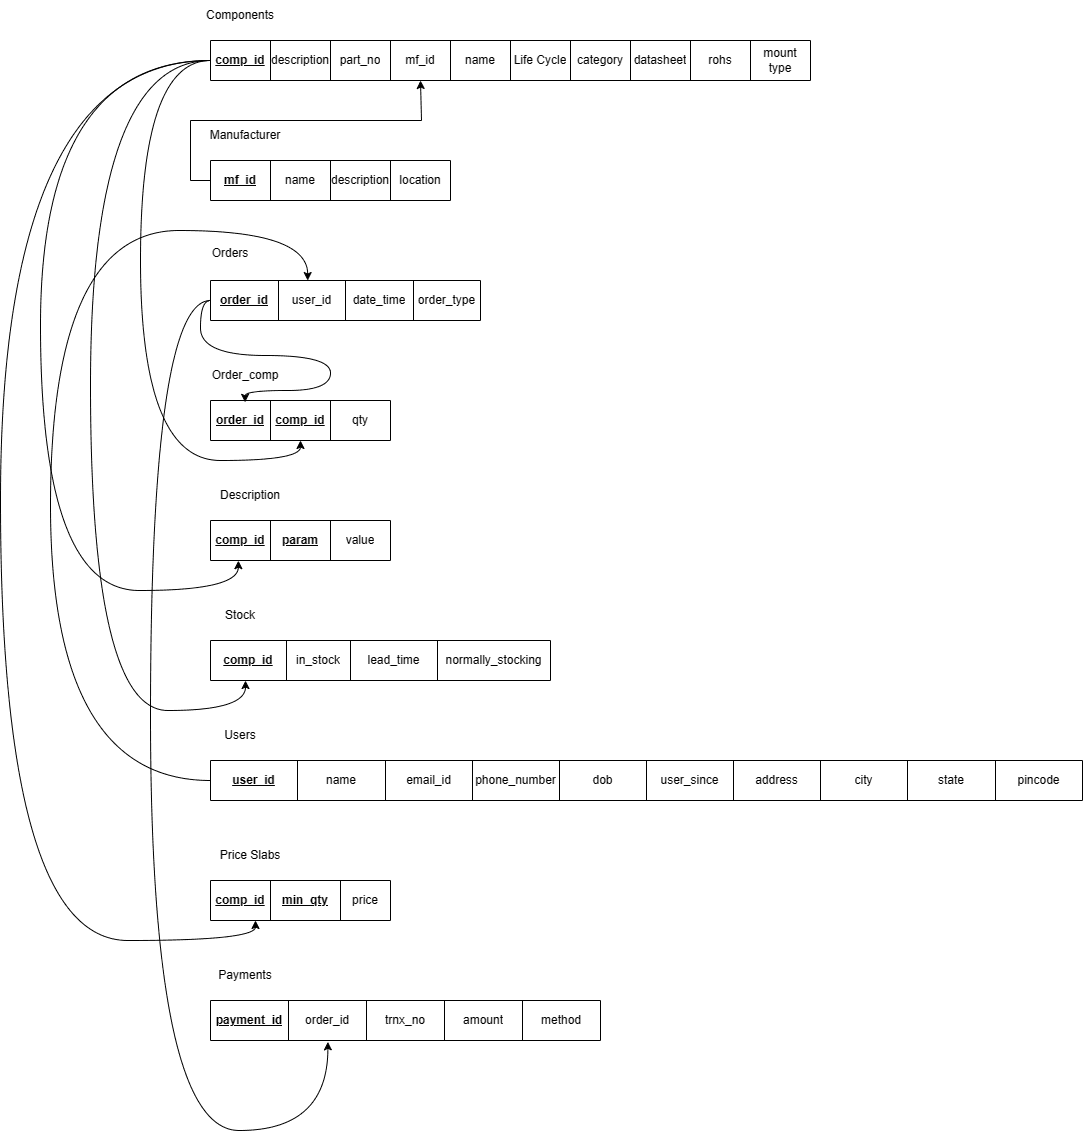
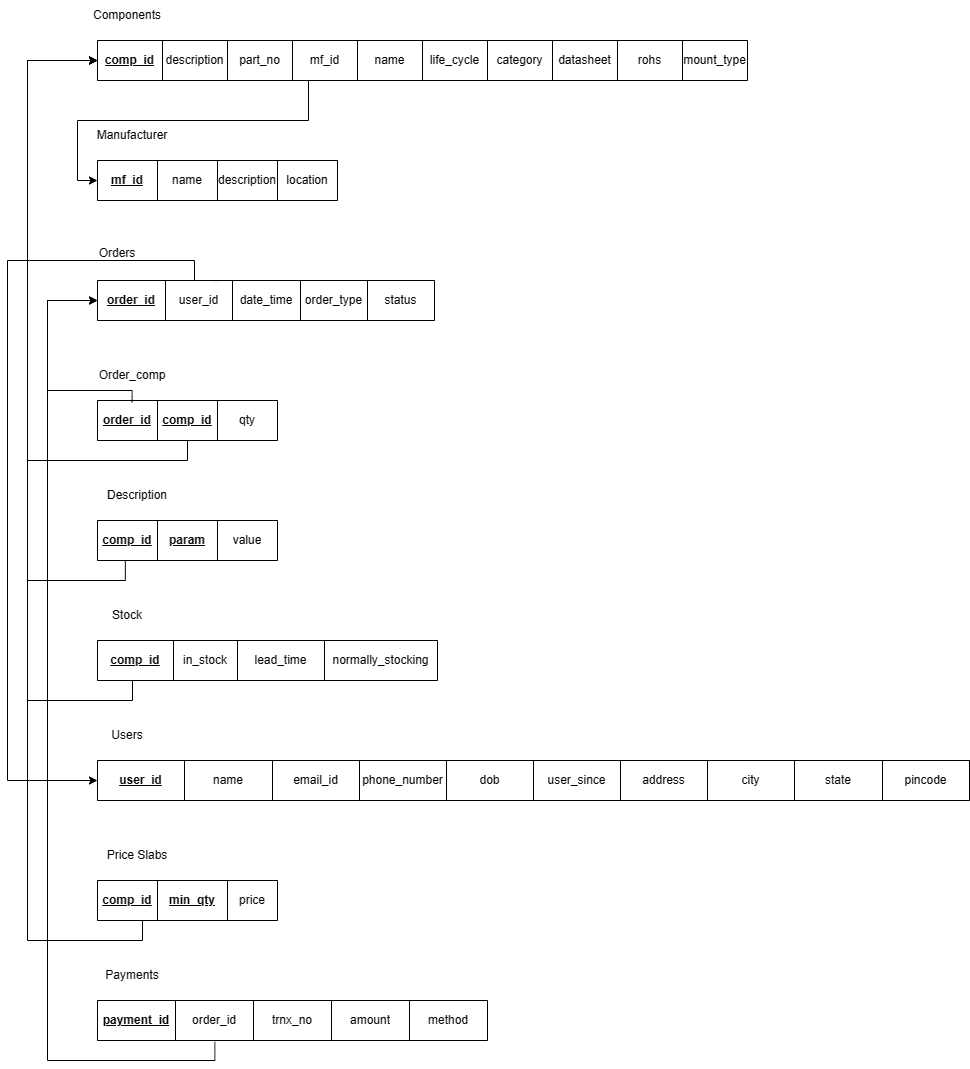
:open_book: Update Relational Schema and add ER Diagram

diff --git a/pages/1_ER_Diagram.py b/pages/1_ER_Diagram.py
@@ -10,4 +10,4 @@ st.title('ER Diagram')
 st.markdown('''
     This is the ER Diagram of the database. 
 ''')
-st.image('images/ERDiagram.jpg', use_column_width=True)
+st.image('images/ERDiagram.png', use_column_width=True)
